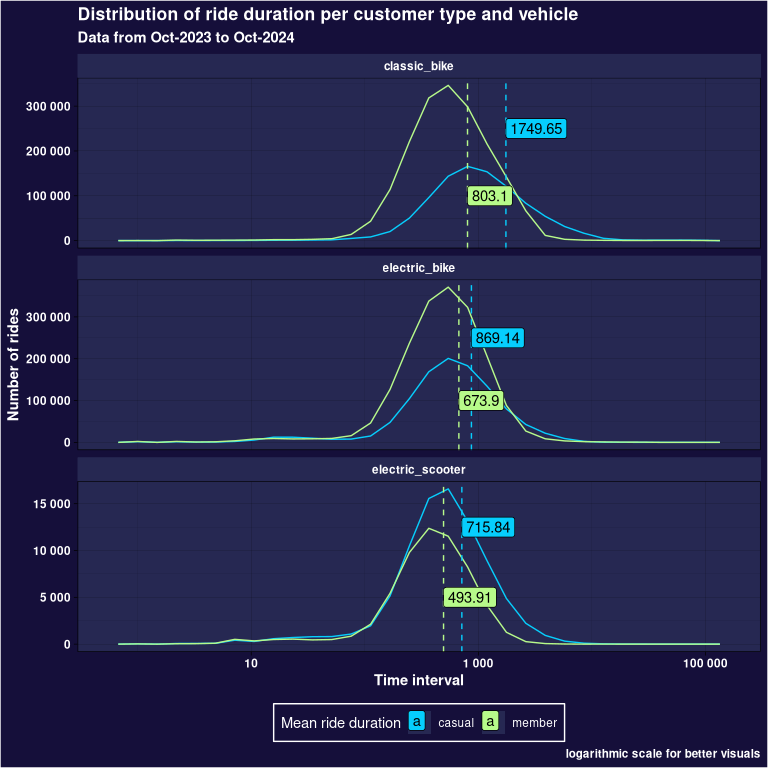
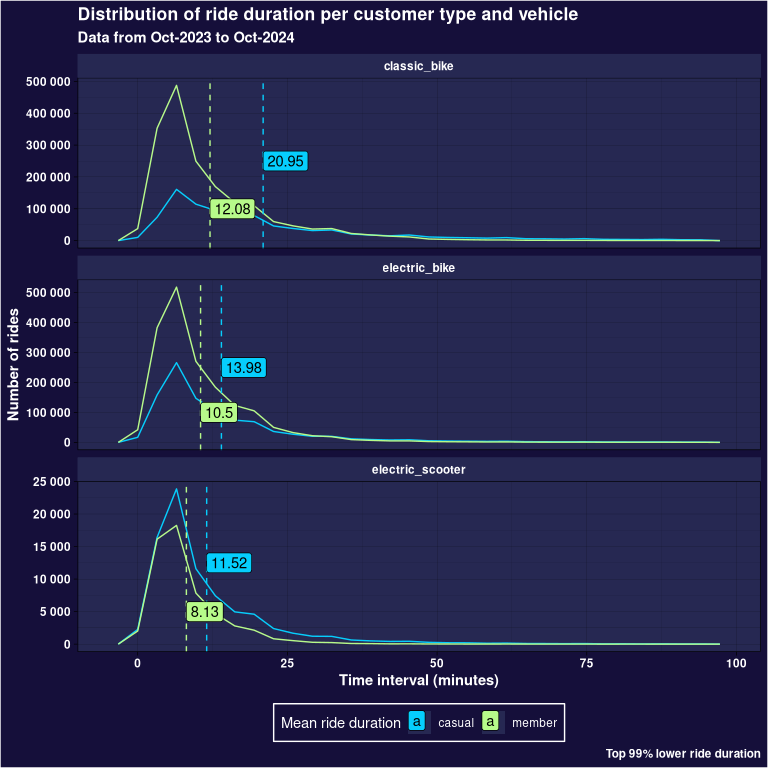
New graph of quarters and new files added to gitignore

diff --git a/README.md b/README.md
@@ -304,14 +304,14 @@ stations |>
   kable()
 ```
 
-|      lat | name                       | short_name | station_id                           | capacity |       lon | region_id | address |
-|---------:|:---------------------------|:-----------|:-------------------------------------|---------:|----------:|:----------|:--------|
-| 41.96861 | Milwaukee Ave & Ainslie St | 24370      | 1969221526359528022                  |       19 | -87.76108 | NA        | NA      |
-| 41.79375 | Mozart St & 55th St        | 24267      | 1966307477149012058                  |       11 | -87.69472 | NA        | NA      |
-| 41.81574 | Western Ave & 43rd St      | 24245      | 1943244109954931024                  |       15 | -87.68489 | NA        | NA      |
-| 41.93852 | Nagle Ave & Belmont Ave    | 24324      | 1981488728284770592                  |       16 | -87.78735 | NA        | NA      |
-| 41.74656 | Stony Island Ave & 82nd St | 583        | a3b29fae-a135-11e9-9cda-0a87ae2ba916 |       11 | -87.58601 | NA        | NA      |
-| 41.99008 | Kedvale Ave & Peterson Ave | 24159      | 1929967657204564894                  |       15 | -87.73171 | NA        | NA      |
+| station_id                           |      lat |       lon | name                         | capacity | short_name   | region_id | address |
+|:-------------------------------------|---------:|----------:|:-----------------------------|---------:|:-------------|:----------|:--------|
+| 1955905507044284968                  | 41.92227 | -87.80202 | Nordica Ave & Medill Ave     |       15 | 21378        | NA        | NA      |
+| 1934289361049585738                  | 41.82810 | -87.69468 | California Ave & 36th St     |       15 | 21338        | NA        | NA      |
+| a3b0fae6-a135-11e9-9cda-0a87ae2ba916 | 42.01270 | -87.66606 | Glenwood Ave & Touhy Ave     |       15 | 525          | NA        | NA      |
+| a3ad4d1b-a135-11e9-9cda-0a87ae2ba916 | 41.81409 | -87.59701 | Woodlawn Ave & Lake Park Ave |       15 | KA1503000065 | NA        | NA      |
+| a3acdae2-a135-11e9-9cda-0a87ae2ba916 | 41.78008 | -87.62975 | Wentworth Ave & 63rd St      |       11 | KA1503000025 | NA        | NA      |
+| a3a9f76a-a135-11e9-9cda-0a87ae2ba916 | 41.92153 | -87.70732 | Kedzie Ave & Palmer Ct       |       15 | 13292        | NA        | NA      |
 
 ``` r
 stations |>
@@ -322,14 +322,14 @@ stations |>
 
 | Value      | NA’s |
 |:-----------|-----:|
-| lat        |    0 |
-| name       |    0 |
-| android    |    0 |
-| ios        |    0 |
-| short_name |  872 |
 | station_id |    0 |
-| capacity   |    0 |
+| lat        |    0 |
 | lon        |    0 |
+| name       |    0 |
+| capacity   |    0 |
+| ios        |    0 |
+| android    |    0 |
+| short_name |  872 |
 | region_id  | 1787 |
 | address    |  929 |
 
@@ -386,8 +386,8 @@ stations |>
 | a3a3a282-a135-11e9-9cda-0a87ae2ba916 | TA1306000014 | Wilton Ave & Diversey Pkwy        | -87.65270 | 41.93242 |
 | d53ae727-5265-4b8e-a6ca-2a36dc0345c4 | chargingstx2 | Wilton Ave & Diversey Pkwy\*      | -87.65270 | 41.93242 |
 | 1827484051430132402                  | NA           | Public Rack - Forest Glen Station | -87.75552 | 41.97871 |
-| 1677249871073777806                  | NA           | Public Rack - Laflin St & 51st St | -87.66208 | 41.80135 |
 | 1715823821144840768                  | NA           | Public Rack - Laflin St &51st ST  | -87.66208 | 41.80135 |
+| 1677249871073777806                  | NA           | Public Rack - Laflin St & 51st St | -87.66208 | 41.80135 |
 | 1827474404723843690                  | NA           | Public Rack - Peterson Park       | -87.75552 | 41.97871 |
 
 Stations with repeated coordinates
@@ -402,12 +402,12 @@ stations |>
 
 | station_id          | short_name | name                   |       lon |      lat |
 |:--------------------|:-----------|:-----------------------|----------:|---------:|
-| 1967727360320698512 | 24211      | Western Ave & Lake St  | -87.68668 | 41.88481 |
 | 1978857650118994914 | 24409      | Indiana Ave & 133rd St | -87.61719 | 41.65380 |
+| 1967727360320698512 | 24211      | Western Ave & Lake St  | -87.68668 | 41.88481 |
 | 1984042930424753006 | 24394      | Steelworkers Park      | -87.53091 | 41.73793 |
-| 1448642188027369090 | NA         | Steelworkers Park      | -87.53107 | 41.73825 |
-| 1594046379513303720 | NA         | Western Ave & Lake St  | -87.68585 | 41.88461 |
 | 1448642188027369086 | NA         | Indiana Ave & 133rd St | -87.61705 | 41.65356 |
+| 1594046379513303720 | NA         | Western Ave & Lake St  | -87.68585 | 41.88461 |
+| 1448642188027369090 | NA         | Steelworkers Park      | -87.53107 | 41.73825 |
 
 Stations with repeated name
 
@@ -502,7 +502,7 @@ df <- df |>
       "Public Rack - Peterson Park", end_station_name
     )
   ) |>
-  mutate(ride_duration = as.integer(ended_at - started_at)) |>
+  mutate(ride_duration = as.integer((ended_at - started_at)/60)) |>
   filter(ride_duration > 0) |>
   mutate(station_fee = is.na(end_station_name))
 
@@ -513,26 +513,26 @@ df |>
 
 | ride_id          | rideable_type | started_at          | ended_at            | start_station_name                   | end_station_name            | member_casual | start_station_id                     | start_lon | start_lat | end_station_id                       |   end_lon |  end_lat | ride_duration | station_fee |
 |:-----------------|:--------------|:--------------------|:--------------------|:-------------------------------------|:----------------------------|:--------------|:-------------------------------------|----------:|----------:|:-------------------------------------|----------:|---------:|--------------:|:------------|
-| 4449097279F8BBE7 | classic_bike  | 2023-10-08 10:36:26 | 2023-10-08 10:49:19 | Orleans St & Chestnut St (NEXT Apts) | Sheffield Ave & Webster Ave | member        | a3b35e21-a135-11e9-9cda-0a87ae2ba916 | -87.63754 |  41.89820 | a3aabad8-a135-11e9-9cda-0a87ae2ba916 | -87.65382 | 41.92154 |           773 | FALSE       |
-| 9CF060543CA7B439 | electric_bike | 2023-10-11 17:23:59 | 2023-10-11 17:36:08 | Desplaines St & Kinzie St            | Sheffield Ave & Webster Ave | member        | a3a482fb-a135-11e9-9cda-0a87ae2ba916 | -87.64445 |  41.88872 | a3aabad8-a135-11e9-9cda-0a87ae2ba916 | -87.65382 | 41.92154 |           729 | FALSE       |
-| 667F21F4D6BDE69C | electric_bike | 2023-10-12 07:02:33 | 2023-10-12 07:06:53 | Orleans St & Chestnut St (NEXT Apts) | Franklin St & Lake St       | member        | a3b35e21-a135-11e9-9cda-0a87ae2ba916 | -87.63754 |  41.89820 | a3a6f7a5-a135-11e9-9cda-0a87ae2ba916 | -87.63550 | 41.88584 |           260 | FALSE       |
-| F92714CC6B019B96 | classic_bike  | 2023-10-24 19:13:03 | 2023-10-24 19:18:29 | Desplaines St & Kinzie St            | Franklin St & Lake St       | member        | a3a482fb-a135-11e9-9cda-0a87ae2ba916 | -87.64445 |  41.88872 | a3a6f7a5-a135-11e9-9cda-0a87ae2ba916 | -87.63550 | 41.88584 |           326 | FALSE       |
-| 5E34BA5DE945A9CC | classic_bike  | 2023-10-09 18:19:26 | 2023-10-09 18:30:56 | Desplaines St & Kinzie St            | Franklin St & Lake St       | member        | a3a482fb-a135-11e9-9cda-0a87ae2ba916 | -87.64445 |  41.88872 | a3a6f7a5-a135-11e9-9cda-0a87ae2ba916 | -87.63550 | 41.88584 |           690 | FALSE       |
-| F7D7420AFAC53CD9 | electric_bike | 2023-10-04 17:10:59 | 2023-10-04 17:25:21 | Orleans St & Chestnut St (NEXT Apts) | Sheffield Ave & Webster Ave | member        | a3b35e21-a135-11e9-9cda-0a87ae2ba916 | -87.63754 |  41.89820 | a3aabad8-a135-11e9-9cda-0a87ae2ba916 | -87.65382 | 41.92154 |           862 | FALSE       |
+| 4449097279F8BBE7 | classic_bike  | 2023-10-08 10:36:26 | 2023-10-08 10:49:19 | Orleans St & Chestnut St (NEXT Apts) | Sheffield Ave & Webster Ave | member        | a3b35e21-a135-11e9-9cda-0a87ae2ba916 | -87.63754 |  41.89820 | a3aabad8-a135-11e9-9cda-0a87ae2ba916 | -87.65382 | 41.92154 |            12 | FALSE       |
+| 9CF060543CA7B439 | electric_bike | 2023-10-11 17:23:59 | 2023-10-11 17:36:08 | Desplaines St & Kinzie St            | Sheffield Ave & Webster Ave | member        | a3a482fb-a135-11e9-9cda-0a87ae2ba916 | -87.64445 |  41.88872 | a3aabad8-a135-11e9-9cda-0a87ae2ba916 | -87.65382 | 41.92154 |            12 | FALSE       |
+| 667F21F4D6BDE69C | electric_bike | 2023-10-12 07:02:33 | 2023-10-12 07:06:53 | Orleans St & Chestnut St (NEXT Apts) | Franklin St & Lake St       | member        | a3b35e21-a135-11e9-9cda-0a87ae2ba916 | -87.63754 |  41.89820 | a3a6f7a5-a135-11e9-9cda-0a87ae2ba916 | -87.63550 | 41.88584 |             4 | FALSE       |
+| F92714CC6B019B96 | classic_bike  | 2023-10-24 19:13:03 | 2023-10-24 19:18:29 | Desplaines St & Kinzie St            | Franklin St & Lake St       | member        | a3a482fb-a135-11e9-9cda-0a87ae2ba916 | -87.64445 |  41.88872 | a3a6f7a5-a135-11e9-9cda-0a87ae2ba916 | -87.63550 | 41.88584 |             5 | FALSE       |
+| 5E34BA5DE945A9CC | classic_bike  | 2023-10-09 18:19:26 | 2023-10-09 18:30:56 | Desplaines St & Kinzie St            | Franklin St & Lake St       | member        | a3a482fb-a135-11e9-9cda-0a87ae2ba916 | -87.64445 |  41.88872 | a3a6f7a5-a135-11e9-9cda-0a87ae2ba916 | -87.63550 | 41.88584 |            11 | FALSE       |
+| F7D7420AFAC53CD9 | electric_bike | 2023-10-04 17:10:59 | 2023-10-04 17:25:21 | Orleans St & Chestnut St (NEXT Apts) | Sheffield Ave & Webster Ave | member        | a3b35e21-a135-11e9-9cda-0a87ae2ba916 | -87.63754 |  41.89820 | a3aabad8-a135-11e9-9cda-0a87ae2ba916 | -87.65382 | 41.92154 |            14 | FALSE       |
 
 ``` r
 kable(summary(df))
 ```
 
-|     | ride_id          | rideable_type    | started_at                     | ended_at                       | start_station_name | end_station_name | member_casual    | start_station_id | start_lon     | start_lat     | end_station_id   | end_lon       | end_lat       | ride_duration   | station_fee   |
-|:----|:-----------------|:-----------------|:-------------------------------|:-------------------------------|:-------------------|:-----------------|:-----------------|:-----------------|:--------------|:--------------|:-----------------|:--------------|:--------------|:----------------|:--------------|
-|     | Length:5845369   | Length:5845369   | Min. :2023-10-01 00:00:05.00   | Min. :2023-10-01 00:02:02.00   | Length:5845369     | Length:5845369   | Length:5845369   | Length:5845369   | Min. :-87.8   | Min. :41.6    | Length:5845369   | Min. :-87.8   | Min. :41.6    | Min. : 1.0      | Mode :logical |
-|     | Class :character | Class :character | 1st Qu.:2024-02-27 04:55:42.00 | 1st Qu.:2024-02-27 05:16:32.00 | Class :character   | Class :character | Class :character | Class :character | 1st Qu.:-87.7 | 1st Qu.:41.9  | Class :character | 1st Qu.:-87.7 | 1st Qu.:41.9  | 1st Qu.: 331.0  | FALSE:4762233 |
-|     | Mode :character  | Mode :character  | Median :2024-06-06 13:01:48.50 | Median :2024-06-06 13:21:01.54 | Mode :character    | Mode :character  | Mode :character  | Mode :character  | Median :-87.6 | Median :41.9  | Mode :character  | Median :-87.6 | Median :41.9  | Median : 580.0  | TRUE :1083136 |
-|     |                  |                  | Mean :2024-05-08 13:02:16.15   | Mean :2024-05-08 13:17:42.60   |                    |                  |                  |                  | Mean :-87.6   | Mean :41.9    |                  | Mean :-87.6   | Mean :41.9    | Mean : 926.2    |               |
-|     |                  |                  | 3rd Qu.:2024-08-05 11:48:57.01 | 3rd Qu.:2024-08-05 12:06:05.80 |                    |                  |                  |                  | 3rd Qu.:-87.6 | 3rd Qu.:41.9  |                  | 3rd Qu.:-87.6 | 3rd Qu.:41.9  | 3rd Qu.: 1028.0 |               |
-|     |                  |                  | Max. :2024-09-30 23:54:05.54   | Max. :2024-09-30 23:59:52.55   |                    |                  |                  |                  | Max. :-87.5   | Max. :42.1    |                  | Max. :-87.5   | Max. :42.1    | Max. :90562.0   |               |
-|     |                  |                  |                                |                                |                    |                  |                  |                  | NA’s :1070550 | NA’s :1070550 |                  | NA’s :1097434 | NA’s :1097434 |                 |               |
+|     | ride_id          | rideable_type    | started_at                     | ended_at                       | start_station_name | end_station_name | member_casual    | start_station_id | start_lon     | start_lat     | end_station_id   | end_lon       | end_lat       | ride_duration |
+|:----|:-----------------|:-----------------|:-------------------------------|:-------------------------------|:-------------------|:-----------------|:-----------------|:-----------------|:--------------|:--------------|:-----------------|:--------------|:--------------|:--------------|
+|     | Length:5847103   | Length:5847103   | Min. :2023-10-01 00:00:05.00   | Min. :2023-10-01 00:02:02.00   | Length:5847103     | Length:5847103   | Length:5847103   | Length:5847103   | Min. :-87.8   | Min. :41.6    | Length:5847103   | Min. :-87.8   | Min. :41.6    | Min. :-999391 |
+|     | Class :character | Class :character | 1st Qu.:2024-02-27 02:45:42.00 | 1st Qu.:2024-02-27 03:43:53.50 | Class :character   | Class :character | Class :character | Class :character | 1st Qu.:-87.7 | 1st Qu.:41.9  | Class :character | 1st Qu.:-87.7 | 1st Qu.:41.9  | 1st Qu.: 331  |
+|     | Mode :character  | Mode :character  | Median :2024-06-06 12:51:30.67 | Median :2024-06-06 13:09:38.19 | Mode :character    | Mode :character  | Mode :character  | Mode :character  | Median :-87.6 | Median :41.9  | Mode :character  | Median :-87.6 | Median :41.9  | Median : 580  |
+|     |                  |                  | Mean :2024-05-08 12:54:21.68   | Mean :2024-05-08 13:09:46.89   |                    |                  |                  |                  | Mean :-87.6   | Mean :41.9    |                  | Mean :-87.6   | Mean :41.9    | Mean : 925    |
+|     |                  |                  | 3rd Qu.:2024-08-05 11:40:13.60 | 3rd Qu.:2024-08-05 11:57:43.35 |                    |                  |                  |                  | 3rd Qu.:-87.6 | 3rd Qu.:41.9  |                  | 3rd Qu.:-87.6 | 3rd Qu.:41.9  | 3rd Qu.: 1028 |
+|     |                  |                  | Max. :2024-09-30 23:54:05.54   | Max. :2024-09-30 23:59:52.55   |                    |                  |                  |                  | Max. :-87.5   | Max. :42.1    |                  | Max. :-87.5   | Max. :42.1    | Max. : 90562  |
+|     |                  |                  |                                |                                |                    |                  |                  |                  | NA’s :1071544 | NA’s :1071544 |                  | NA’s :1098661 | NA’s :1098661 |               |
 
 We have now finished our data cleaning process. Now that our data is
 ready, let’s continue with our analysis.
@@ -545,6 +545,7 @@ with different types of bicycles between members and casual users
 ``` r
 df |>
   select(member_casual, rideable_type, ride_duration) |>
+  slice_min(n = as.integer(dim(df)[1] * 0.999), order_by = ride_duration) |>
   group_by(member_casual, rideable_type) |>
   summarise(avg_ride_duration = mean(ride_duration)) |>
   ggplot() +
@@ -553,7 +554,10 @@ df |>
   facet_wrap(~rideable_type) +
   global_theme() +
   scale_fill_manual(values = c("#06CEFD", "#B7FA8A")) +
-  theme(legend.position = "none")
+  theme(legend.position = "none") +
+  labs(
+    caption = "Top 99.9% lower ride duration",
+  )
 ```
 
 ![](README_files/figure-commonmark/First%20analysis-1.png)
@@ -564,11 +568,14 @@ let’s take a look at the distribution of usage
 ``` r
 df |>
   select(member_casual, rideable_type, ride_duration) |>
+  slice_min(n = as.integer(dim(df)[1] * 0.99), order_by = ride_duration) |>
   group_by(member_casual, rideable_type) |>
   summarize(mean_duration = round(mean(ride_duration), 2)) |>
   ggplot() +
   geom_freqpoly(
-    data = df |> select(member_casual, rideable_type, ride_duration),
+    data = df |>
+      select(member_casual, rideable_type, ride_duration) |>
+      slice_min(n = as.integer(dim(df)[1] * 0.99), order_by = ride_duration),
     aes(x = ride_duration, color = member_casual),
     show.legend = FALSE
   ) +
@@ -582,16 +589,15 @@ df |>
     y = c(250000, 250000, 12500, 100000, 100000, 5000),
     hjust = 0
   ) +
-  scale_x_log10(label = label_number()) +
   scale_y_continuous(label = label_number()) +
   facet_wrap(~rideable_type, dir = "v", scales = "free_y") +
   global_theme() +
   labs(
     y = "Number of rides",
-    x = "Time interval",
+    x = "Time interval (minutes)",
     title = "Distribution of ride duration per customer type and vehicle",
     subtitle = "Data from Oct-2023 to Oct-2024",
-    caption = "logarithmic scale for better visuals",
+    caption = "Top 99% lower ride duration",
     fill = "Mean ride duration",
   ) +
   scale_color_manual(values = c("#06CEFD", "#B7FA8A")) +
@@ -605,6 +611,32 @@ df |>
 ```
 
 ![](README_files/figure-commonmark/unnamed-chunk-13-1.png)
+
+On average, casual users tend to use the service for longer periods of
+time, but they have less rides overall. Since casual users pay for each
+minute they use the service, we can use this a selling point to them. On
+the other hand, we may have to further explore this difference in usage.
+
+Some other interesting visualization is the next one:
+
+``` r
+df |>
+  slice_min(n = as.integer(dim(df)[1] * 0.99), order_by = ride_duration) |>
+  ggplot() +
+  aes(x = wday(started_at, week_start = 1), fill = member_casual) +
+  geom_histogram(show.legend = FALSE) +
+  facet_grid(cols = vars(member_casual), rows = vars(quarter(started_at), fiscal_start = 4)) +
+  labs(
+    x="day of the week",
+    title = "Rides per day of the week",
+    subtitle = "Data from Agust, 2024",
+    y = "Number of rides"
+  ) +
+  scale_fill_manual(values = c("#06CEFD", "#B7FA8A")) +
+  global_theme()
+```
+
+![](README_files/figure-commonmark/unnamed-chunk-14-1.png)
 
 ``` r
 # p  <- ggplot(data = visual) + aes(x = member_casual, y= avg_time_used) + geom_col()
